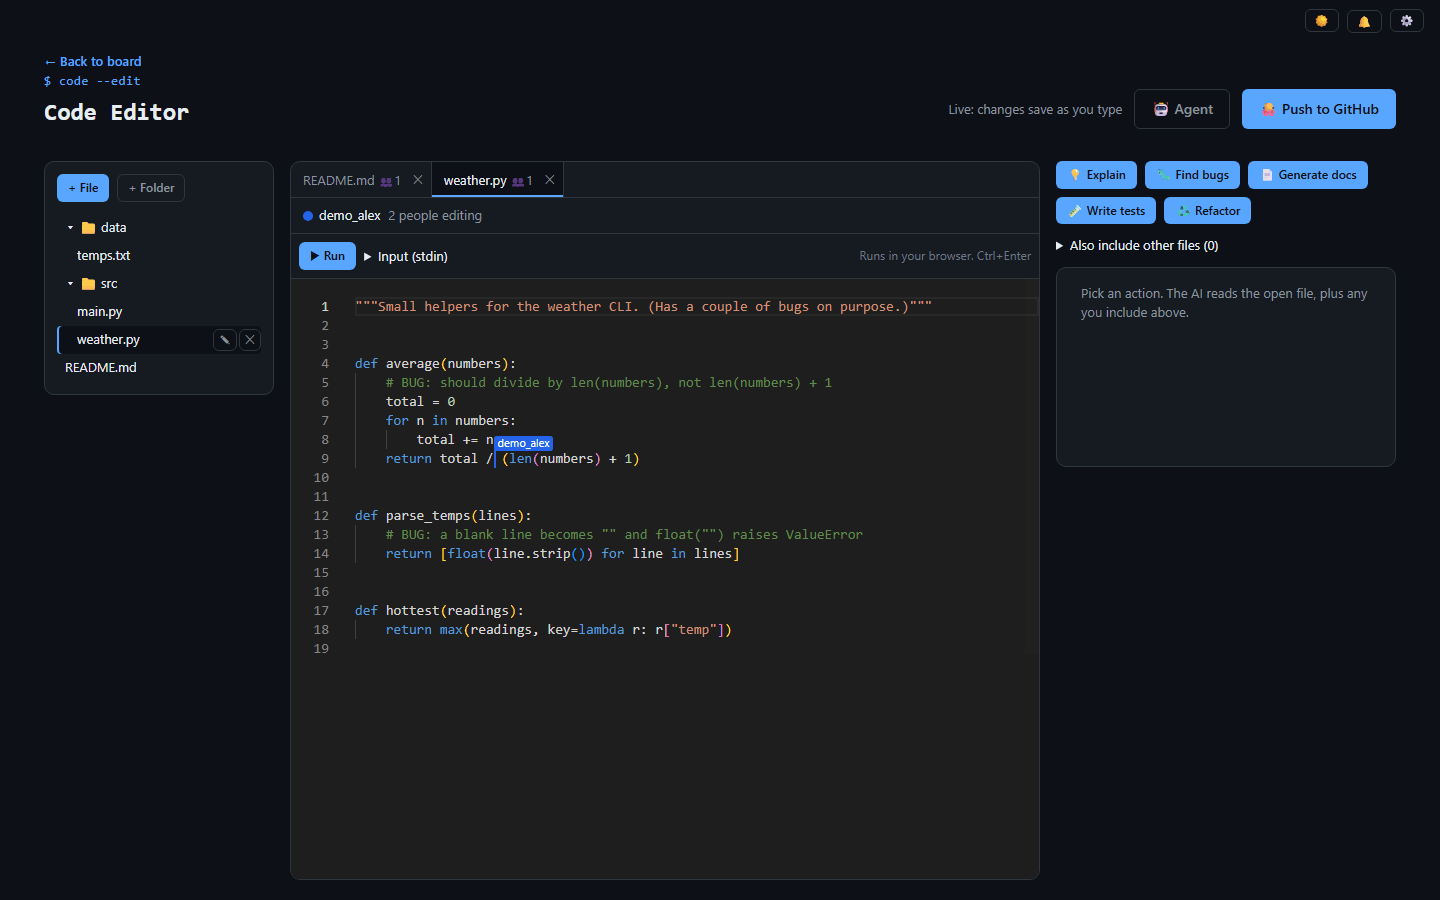
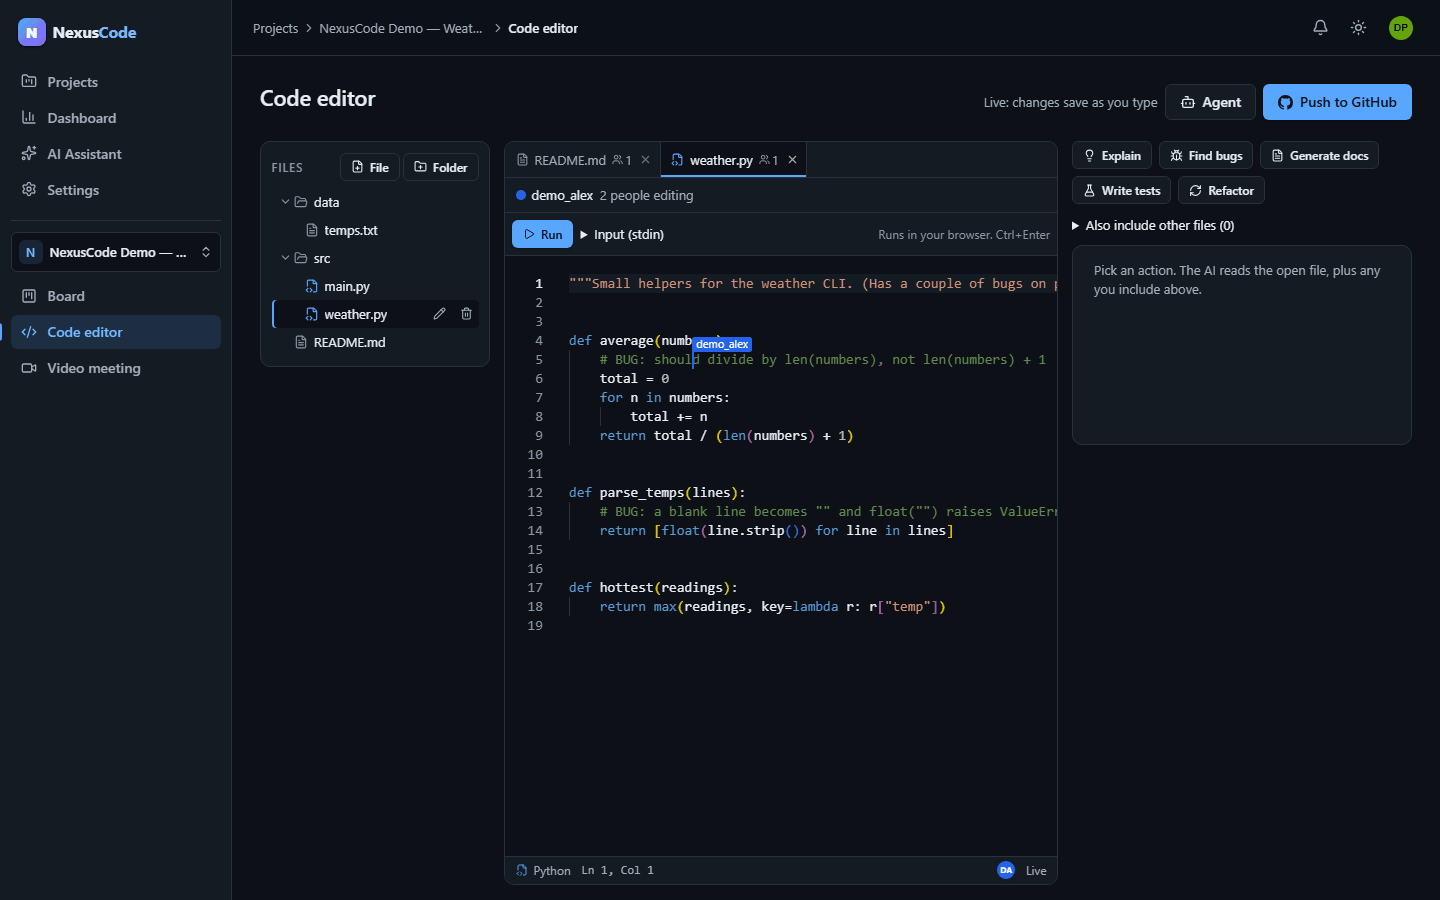
docs(screenshots): re-capture after the C6 polish
Landing, projects, board, members, live editing and chat/activity from the
local demo stack, plus the og:image crop. Agent and meeting shots stay
pre-C6 (they need a real Gemini run and LiveKit call) and are marked so.

diff --git a/docs/screenshots/README.md b/docs/screenshots/README.md
@@ -7,6 +7,17 @@ server, driven by headless Chromium (Playwright) at 1440×900 in the dark theme.
 production data and no real accounts or emails appear in them. PNGs are palette-
 optimized (about 195 KB for the set).
 
+**Updated on 2026-11-14 after the C6 UI polish.** These were re-captured the same way, from
+the production build (`vite preview`), with reduced motion on so that no animation is caught
+halfway: `00`, `01`, `02`, `03`, `04` and `08`, plus `frontend/public/og-image.png`.
+`06`, `07` and `10` are **still the pre-C6 images**:
+- `06` and `07` need a real Gemini agent run.
+- `10` needs a real LiveKit call.
+Re-taking those is a manual step and is listed below.
+
+The landing page's own screenshots (`frontend/public/landing/*.webp`, board and editor in
+both themes) come from the same local demo stack.
+
 | File | What it shows | How it was made |
 |------|---------------|-----------------|
 | `00-landing.png` | The public landing page at `/` (signed out). | Automated. |
@@ -20,6 +31,10 @@ optimized (about 195 KB for the set).
 | `10-video-meeting.png` | A real two-person LiveKit call (`demo_priya` and `demo_sam`) with mic / camera / screen-share controls and device pickers. | Automated. The video is Chromium's **fake camera test pattern** and the devices are its fake devices ("Fake Default Audio Input", "fake_device_0"); the call itself was real. |
 
 ## Not captured
+
+- **`06-agent-fix.png`, `07-agent-diff.png` and `10-video-meeting.png` are still the
+  pre-C6 look.** Re-take them with the same flows once a Gemini key and a LiveKit project
+  can be used for a demo run.
 
 - **`05-run-python.png` — needs a manual screenshot.** The automated run clicked Run on
   `src/main.py` but the output did not appear within the 30-second limit, twice
